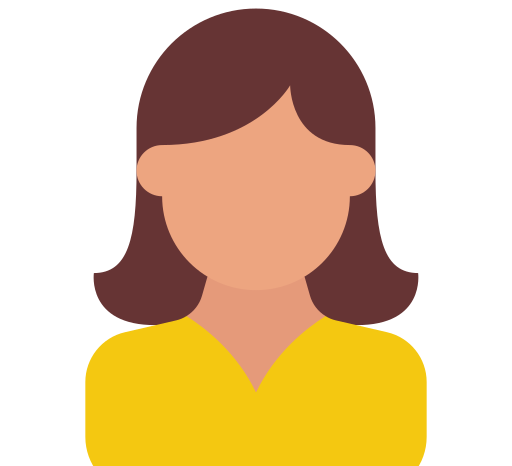
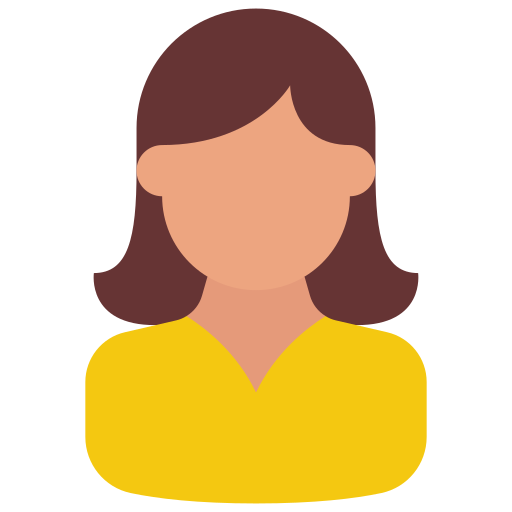
Update team member and descriptions

diff --git a/about.php b/about.php
@@ -113,7 +113,7 @@
         <h3>Himal Dahal</h3>
         <p class="team-role">Sales Incharge</p>
         <p class="role-description">
-          Leads the company with a clear vision, oversees operations, and ensures quality service across all travel solutions.
+          Manages customer inquiries, coordinating tour packages, searching and booking flight tickets, and regularly following up with clients to ensure smooth service and customer satisfaction.
         </p>
       </div>
 
@@ -134,7 +134,7 @@
         <h3>Kushal Acharya</h3>
         <p class="team-role">Web & Digital Administrator</p>
         <p class="role-description">
-          Handles server-side development, databases, and system logic to keep the platform secure, fast, and reliable.
+          Handles web development specially back-end, system maintenance, hosting management, and overall digital operations to ensure smooth and secure performance.
         </p>
       </div>
 
@@ -143,7 +143,7 @@
         <h3>Bipin Chapai</h3>
         <p class="team-role">Web & Digital Administrator</p>
         <p class="role-description">
-          Focuses on UI design and user experience, building clean, responsive, and user-friendly interfaces.
+          Focuses on graphic designs and user experience, handling social media,  building clean, responsive, and user-friendly interfaces to ensure smooth navigation and an engaging digital experience for users.
         </p>
       </div>
     </div>
@@ -151,11 +151,11 @@
     <div class="team-grid">
       <!-- Team Member -->
       <div class="team-card">
-        <img src="assets/images/team/amrit.jpg" alt="Team Member">
-        <h3>Amrit Sagar Bhattarai</h3>
+        <img src="assets/images/team/female.png" alt="Team Member">
+        <h3>Gita Bhattarai</h3>
         <p class="team-role">Receptionist</p>
         <p class="role-description">
-          Leads the company with a clear vision, oversees operations, and ensures quality service across all travel solutions.
+          Manages front-desk operations, handles customer inquiries, coordinates appointments, and ensures smooth communication between clients and the organization.
         </p>
       </div>
     </div>
